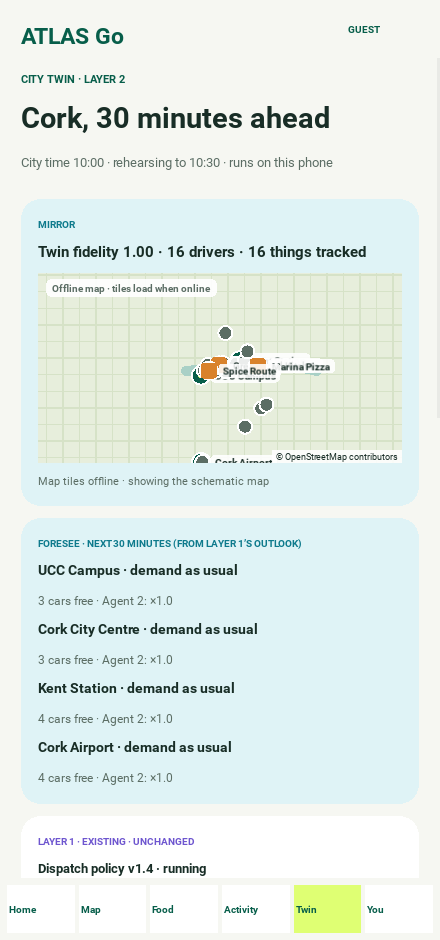
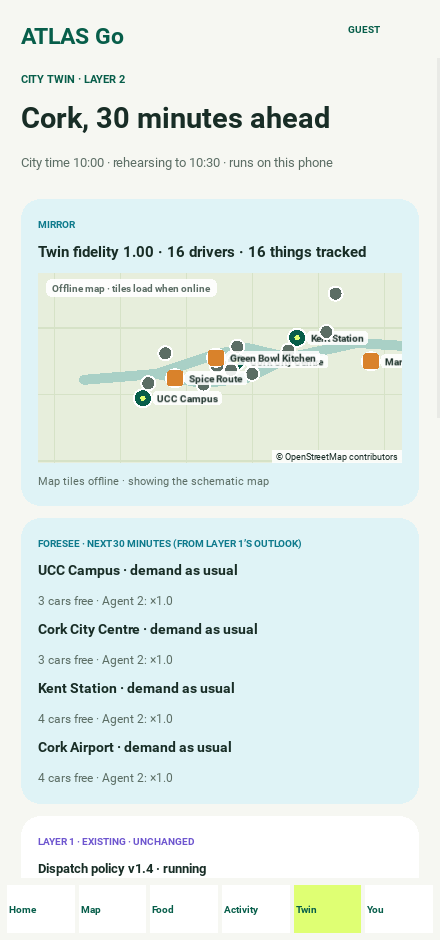
ATLAS Go 1.3.0: refit ride maps after layout; docs and release notes
Claude-Session: https://claude.ai/code/session_01GguvZD6NgGgkNPxeEbuiRF

Changed region(s): [[0.1773, 0.3085, 0.9159, 0.4936]]

diff --git a/android-app/atlas_go/livemap.py b/android-app/atlas_go/livemap.py
@@ -171,7 +171,9 @@ class LiveMap(StencilView):
         self._drag = None
         self.tiles.listeners.append(self._schedule)
         self._redraw_event = None
+        self._fit = None              # points to keep in view until the user pans or zooms
         self.bind(pos=self._schedule, size=self._schedule)
+        self.bind(size=self._refit)
 
     # ------------------------------------------------------------------ public API
     def set_view(self, center=None, zoom=None):
@@ -182,9 +184,17 @@ class LiveMap(StencilView):
         self._schedule()
 
     def zoom_by(self, step: int):
+        self._fit = None
         self.set_view(zoom=self.zoom + step)
 
+    def _refit(self, *_):
+        # A widget starts at Kivy's default 100 x 100 and gets its real size after layout; fitting
+        # at the default size zoomed out to the whole county on phones. Refit once the size is real.
+        if self._fit is not None:
+            self.fit(*self._fit)
+
     def fit(self, points, padding=0.3):
+        self._fit = (list(points), padding)
         if not self.width or not self.height:
             Clock.schedule_once(lambda _dt: self.fit(points, padding), 0)
             return
@@ -230,6 +240,7 @@ class LiveMap(StencilView):
         touch.grab(self)
         self._drag = touch.pos
         self.follow = None
+        self._fit = None
         return True
 
     def on_touch_move(self, touch):

diff --git a/android-app/tests/test_shared_ride.py b/android-app/tests/test_shared_ride.py
@@ -136,3 +136,29 @@ def test_legacy_shared_ride_from_1_2_0_still_has_three_stages(tmp_path):
     s.advance_ride(now=T0 + 1)
     s.advance_ride(now=T0 + 2)
     assert s.ride is None and s.history[-1]['status'] == 'Completed' and s.offers[0].seats == 3
+
+
+def test_map_refits_after_layout_gives_the_real_size():
+    """Ride maps are created at Kivy's default 100 x 100 and laid out later; the fit must follow."""
+    import os
+    os.environ.setdefault('KIVY_NO_ARGS', '1')
+    os.environ.setdefault('KIVY_NO_CONSOLELOG', '1')
+    pytest.importorskip('kivy')
+    from atlas_go.livemap import LiveMap
+
+    class NoTiles:
+        listeners, offline = [], True
+
+        def get(self, *_a, **_k):
+            return None
+
+    m = LiveMap(tile_loader=NoTiles(), interactive=False)
+    points = [geo.ZONE_COORDS['Bishopstown'], geo.PLACE_COORDS[0], geo.PLACE_COORDS[1]]
+    m.fit(points)
+    small = m.zoom
+    m.size = (900, 520)                   # real size after layout
+    assert m.zoom > small
+    m.zoom_by(-1)                          # the user zooms: no more automatic refits
+    zoom = m.zoom
+    m.size = (300, 200)
+    assert m.zoom == zoom

diff --git a/android-app/docs/ARCHITECTURE.md b/android-app/docs/ARCHITECTURE.md
@@ -1,6 +1,6 @@
-# Python Android implementation blueprint (1.2.0)
+# Python Android implementation blueprint (1.3.0)
 
-ATLAS Go uses Python for every application screen, rule, storage operation and test. Kivy provides the UI; Buildozer/python-for-android package it for Android. Version 1.2.0 adds passenger, driver and food-seller accounts, a live map with device location, time-lapse live journeys, and wires all six on-device models into those flows. The app still has no operator back end: accounts and bookings exist on one phone. The only network traffic is map-tile downloads.
+ATLAS Go uses Python for every application screen, rule, storage operation and test. Kivy provides the UI; Buildozer/python-for-android package it for Android. Version 1.3.0 adds Layer 2 — a digital twin of Cork and three agents (dispatch, pricing and repositioning, Guardian) on top of the unchanged 1.2.0 models — and the stop order of a shared car (the rider already on board is dropped first). Version 1.2.0 added passenger, driver and food-seller accounts, a live map with device location, time-lapse live journeys, and wires all six on-device models into those flows. The app still has no operator back end: accounts and bookings exist on one phone. The only network traffic is map-tile downloads.
 
 The full UML blueprint for the app, the web front end, the back end and the databases is in the [UML blueprint catalogue](https://github.com/FUllSCIPTS/ATLAS/blob/architecture-explorer/architecture-explorer/starter/docs/UML_BLUEPRINT.md#android-app-atlas-go).
 
@@ -9,7 +9,7 @@ The full UML blueprint for the app, the web front end, the back end and the data
 ```text
 android-app/
   main.py                         Python application entry point
-  buildozer.spec                  Android API, ABIs, permissions and packaging (1.2.0, versionCode 3)
+  buildozer.spec                  Android API, ABIs, permissions and packaging (1.3.0, versionCode 4)
   requirements.txt                Desktop runtime dependencies
   requirements-dev.txt            Testing dependencies
   CHANGELOG.md                    Release history
@@ -21,6 +21,7 @@ android-app/
     store.py                      Atomic JSON persistence: accounts, rides, orders, kitchens, live progress
     intelligence.py               Calendar, surge outlook, dispatch, acceptance, courier timing, lab, self-test
     learned.py                    Learned constants exported from the simulations (generated)
+    twin.py                       Layer 2: mirror, foresee, Agent 1/2, Guardian, fault drill, self-test (1.3.0)
     livemap.py                    LiveMap widget and TileLoader (OSM tiles, cache, offline layer) (1.2.0)
     location.py                   DeviceLocation: Android LocationManager via pyjnius         (1.2.0)
     app.py                        Python/Kivy screens for passengers, drivers and sellers
@@ -31,6 +32,8 @@ android-app/
     test_intelligence.py          Calendar, outlook, policy, courier timing and lab tests
     test_accounts_geo.py          Validation, hashing, maps, live positions, new model features (1.2.0)
     test_roles.py                 Registration, sign-in, driver/seller lifecycles, deletion, migration (1.2.0)
+    test_shared_ride.py           Rider on board, stop order, drop-first enforcement, live legs   (1.3.0)
+    test_twin.py                  Layer 1 unchanged, Agents 1-3, Guardian limits, persistence      (1.3.0)
   training/                       Development-only simulations and exporter (numpy; not packaged)
     rl_sim.py                     Ride dispatch (REINFORCE) and courier timing (Q-learning)
     city_sim.py                   Two simulated years of Cork demand, holidays, supply agent, LSTM
@@ -47,7 +50,10 @@ flowchart LR
     UI["AtlasGoApp<br/>role-aware screens"] --> ST["LocalStore<br/>commands · validation · rollback · tick()"]
     UI --> MAP["LiveMap<br/>tiles · markers · routes"]
     UI --> LOC["DeviceLocation<br/>runtime permission · fixes"]
-    UI --> AI["intelligence.py<br/>dispatch · acceptance · outlook · courier · lab"]
+    UI --> AI["intelligence.py<br/>Layer 1 · dispatch · acceptance · outlook · courier · lab"]
+    UI --> TW["twin.py<br/>Layer 2 · mirror · foresee · Agent 1 · Agent 2 · Guardian"]
+    TW -. reads only .-> AI
+    TW --> ST
     MAP --> TL["TileLoader<br/>threads · disk cache"]
     TL -. HTTPS .-> OSM[("tile.openstreetmap.org")]
     ST --> AC["accounts.py<br/>validation · PBKDF2"]
@@ -167,11 +173,11 @@ Generated from the Python AST of `atlas_go/` for 1.2.0. Dataclass constructors a
 
 ## Persistence and state rules
 
-`state.json` lives in the app-private data directory. A temporary JSON file is flushed and atomically replaced on each save. Its fields are `accounts`, `session`, `guest`, `kitchens`, `cart`, `history`, `ride`, `order`, `seats` and `ui`. `LocalStore.validate` checks every field (roles, unique emails and ids, hash fields, driver counters and locations, kitchen ids and dish prices, record stages and live data) before any screen reads it; damaged files are preserved as `state.invalid.json` and a clean state is created. A 1.1.0 file (without the new fields) loads unchanged. Map tiles are cached under `tiles/` next to the state file.
+`state.json` lives in the app-private data directory. A temporary JSON file is flushed and atomically replaced on each save. Its fields are `accounts`, `session`, `guest`, `kitchens`, `cart`, `history`, `ride`, `order`, `seats`, `ui` and (1.3.0) `twin` — Layer 2 on/off, agent status and the Guardian log (at most 60 entries; a damaged `twin` field is reset on its own). `LocalStore.validate` checks every field (roles, unique emails and ids, hash fields, driver counters and locations, kitchen ids and dish prices, record stages and live data) before any screen reads it; damaged files are preserved as `state.invalid.json` and a clean state is created. A 1.1.0 file (without the new fields) loads unchanged. Map tiles are cached under `tiles/` next to the state file.
 
 Money is integer cents. One active ride and one active food order exist per phone. A ride booked with a registered driver is `pending` until that driver accepts; declining hands it to the next-best driver. A seller-kitchen order is `pending` until the seller accepts, and stays in the cooking stage until the seller marks it ready. Completed, cancelled and delivered records go into history with the passenger's account id (or none for guests); deleting an account anonymises its records. Only passengers (or guests) book and order; only drivers go online; only sellers edit menus.
 
-Ride: driver on the way → at pickup → on your way → completed (or cancelled). Food: preparing → courier on the way → arriving → delivered. Live positions are straight-line interpolations at 25 km/h shown in a 10× time-lapse (`geo.py`).
+Ride: driver on the way → at pickup → on your way → completed (or cancelled). Shared ride with a rider on board (`ride['co']`): driver on the way (carrying that rider) → at your pickup → dropping that rider → on your way → completed. `co['dropped']` becomes true exactly when the ride enters stage 3; completing earlier is refused and a file that breaks this order is quarantined. Solo rides may carry `surge` (×1.0–×2.0) and `twin` (Agent 1 rollouts). Food: preparing → courier on the way → arriving → delivered. Live positions are straight-line interpolations at 25 km/h shown in a 10× time-lapse (`geo.py`).
 
 ## On-device intelligence
 
@@ -185,6 +191,18 @@ Ride: driver on the way → at pickup → on your way → completed (or cancelle
 | Learning lab | `LearningLab` (REINFORCE) | Simulated rides on the phone; sandbox only |
 
 `intelligence.self_test()` runs each model on known inputs; the Intelligence screen exposes it as *Check all models* and the unit tests require all six to pass. `training/export_learned.py` regenerates `learned.py`; for 1.2.0 the output was identical to the bundled file.
+
+## Layer 2: the city twin (1.3.0)
+
+| Part | Implementation | Reads from Layer 1 | Guardian limit |
+|---|---|---|---|
+| Mirror | `twin.mirror(store, now)` | driver pools, registered drivers, live ride and order | — |
+| Foresee | `twin.foresee`, `ratio_30`, `extra_requests` | `outlook()` for this hour and the next | — |
+| Agent 1 · Dispatch | `twin.agent1`, `rehearse` (200 rollouts, seeded per place and 5-minute window) | `rank()` top three, the acceptance and surge features | top three only, not declined/offline, pickup ≤ Layer 1's + 8 min, 250 ms |
+| Agent 2 · Pricing + moves | `twin.agent2`, `driver_hint`, `kitchen_hint` | `outlook()`, `courier_plan()` | ×1.0–×2.0, ≤ twin's expectation + 0.5, 250 ms |
+| Agent 3 · Guardian | `check_dispatch`, `check_price`, `retest_pricing` (500 rollouts), `fault_drill`, `decide_ride` | — | falls back to `choose()` and the base fare |
+
+`intelligence.py` and `learned.py` are byte-identical to 1.2.0 (`tests/test_twin.py` checks their SHA-256). With Layer 2 off, `decide_ride` returns `intelligence.choose()` and the base fare unchanged.
 
 ## Integration contract for a live service
 

diff --git a/android-app/docs/TESTING.md b/android-app/docs/TESTING.md
@@ -1,17 +1,17 @@
-# Testing and release evidence (1.2.0)
+# Testing and release evidence (1.3.0)
 
-ATLAS Go 1.2.0 is a Python/Kivy app with on-phone accounts, a live map and simulated rides and deliveries. Tests exercise local accounts, bookings, ordering, seller and driver workflows, live progress and every bundled model. They do not contact live drivers, restaurants, payments, back-end services or ML services; the map-tile path is tested against a local stand-in tile server.
+ATLAS Go 1.3.0 is a Python/Kivy app with on-phone accounts, a live map and simulated rides and deliveries. Tests exercise local accounts, bookings, ordering, seller and driver workflows, live progress and every bundled model. They do not contact live drivers, restaurants, payments, back-end services or ML services; the map-tile path is tested against a local stand-in tile server.
 
 ## Automated coverage
 
 | Check | Coverage |
 |---|---|
-| 117 Python unit tests | The 68 earlier cases (holidays, outlooks, dispatch, courier timing, learning lab, fares, seats, basket, persistence, recovery, rollback) plus: password hashing and verification, sign-in lockout, email/phone/password/plate/licence/business/price validation, registration rules per role, driver accept/decline/advance with earnings and acceptance counts, seller menus, open/closed kitchens, order acceptance and ready-for-courier, time-based live progress for rides and orders, account deletion and anonymisation, quarantine of nine kinds of damaged account/kitchen state, loading 1.1.0 files, Web-Mercator maths against the OSM formula, live positions, registered-driver dispatch, the acceptance model, surge level, courier timing for any preparation time, and the six-model self-test |
-| Standard screen configuration | 247 assertions through real Kivy control events at 440 × 940: guest rides, shared rides and food; live map and zoom; a journey advancing on its own; the model check; driver, seller and passenger registration with an invalid-email retry; a registered driver chosen by the policy, accepting and completing the trip; a seller accepting an order and handing it to the courier; wrong-password refusal; account deletion; erase-all; 22 screenshots |
-| Narrow screen and larger text | The same 247 assertions at 360 × 780 with font scale 1.2 |
+| 158 Python unit tests | 1.3.0 adds 41: the ride map refitting after layout; Layer 1 source byte-identical to 1.2.0 and unchanged answers after Layer 2 runs; foresight from the outlook (including across midnight); Agent 1 limited to Layer 1's top three, deterministic and within the time budget; Agent 2 prices capped, stable and ×1.0 at ordinary times; driver and kitchen hints; Guardian price and dispatch limits (cap, floor, NaN, wrong type, outsider, declined, offline, slow); 500-rollout re-test and the fault drill end to end; Layer 2 on/off/re-testing; priced booking persistence; bounded log; damaged or missing `twin` state; mirror fidelity; the four Layer 2 self-checks; and for shared rides the rider on board on every route, the four-stage order, refusal to drop the new rider early, quarantine of a file with the wrong order, restart at every stage, seats released on arrival and cancel, live positions on each leg, the time-lapse running through all four stages, and 1.2.0 shared rides finishing with three stages. The 117 cases from 1.2.0: the 68 earlier cases (holidays, outlooks, dispatch, courier timing, learning lab, fares, seats, basket, persistence, recovery, rollback) plus: password hashing and verification, sign-in lockout, email/phone/password/plate/licence/business/price validation, registration rules per role, driver accept/decline/advance with earnings and acceptance counts, seller menus, open/closed kitchens, order acceptance and ready-for-courier, time-based live progress for rides and orders, account deletion and anonymisation, quarantine of nine kinds of damaged account/kitchen state, loading 1.1.0 files, Web-Mercator maths against the OSM formula, live positions, registered-driver dispatch, the acceptance model, surge level, courier timing for any preparation time, and the six-model self-test |
+| Standard screen configuration | 305 assertions through real Kivy control events at 440 × 940 (1.3.0 adds: twin-tested booking and Guardian checks; a full shared ride with the earlier rider dropped first; the Twin tab, Layer 2 self-checks, fault drill and Layer 2 off/on; a capped busy-time price; the driver twin hint and kitchen hint; 28 screenshots). From 1.2.0: guest rides, shared rides and food; live map and zoom; a journey advancing on its own; the model check; driver, seller and passenger registration with an invalid-email retry; a registered driver chosen by the policy, accepting and completing the trip; a seller accepting an order and handing it to the courier; wrong-password refusal; account deletion; erase-all; 22 screenshots |
+| Narrow screen and larger text | The same 305 assertions at 360 × 780 with font scale 1.2 |
 | Live map | Tiles fetched from a local tile server, decoded, cached on disk and drawn at the right positions (Cork centre = tile 13/3903/2709); User-Agent header checked; offline schematic layer when tiles are unavailable; drag-to-pan through Kivy's touch pipeline; simulated GPS fix and nearest-pickup text |
 | Model retraining | `training/export_learned.py` reproduces `atlas_go/learned.py` byte for byte |
-| Release bundle | bundletool validation; manifest: version 1.2.0 / code 3, target 36, not debuggable, backup off, exactly INTERNET, ACCESS_NETWORK_STATE, ACCESS_FINE_LOCATION, ACCESS_COARSE_LOCATION, no background location; location hardware optional |
+| Release bundle | bundletool validation; manifest: version 1.3.0 / code 4, target 36, not debuggable, backup off, exactly INTERNET, ACCESS_NETWORK_STATE, ACCESS_FINE_LOCATION, ACCESS_COARSE_LOCATION, no background location; location hardware optional |
 | Native runtime | All 232 packaged 64-bit ELF libraries aligned to 16 KB |
 | Packaged code | The APK's compiled modules load and run on CPython 3.14 (accounts, store, geo, all six models); every Kivy, pyjnius, android and requests module the UI imports is present in the APK's Python bundle |
 | APK signature | APK Signature Scheme v2 and v3 verified |
@@ -20,6 +20,11 @@ ATLAS Go 1.2.0 is a Python/Kivy app with on-phone accounts, a live map and simul
 The Android debug driver is enabled only when Android marks the APK debuggable and an explicit test launch intent is supplied. The release variant ignores this switch.
 
 ## Bugs fixed during this handover
+
+1.3.0:
+- On phones the ride map was fitted before layout (at Kivy's default 100 × 100) and showed the whole county; it now refits once the real size is known, until the user pans or zooms.
+- Shared seats stayed reserved after a completed shared ride; they are now released on arrival as well as on cancel.
+- The acceptance run used the real clock, so prices and surge features could change with the time of day; it now pins an ordinary hour and a busy hour.
 
 1.2.0:
 - A ride-request decline without a fallback driver counted as an offer before failing; validation now happens first.
@@ -56,4 +61,4 @@ See [release validation](../releases/VALIDATION.md) for the exact source revisio
 
 ## Remaining release work
 
-The emulator run for 1.2.0 happens in GitHub Actions after this source is pushed. Real GPS fixes and the location permission dialog, real OpenStreetMap tile downloads on a phone, physical Android phone/tablet testing, TalkBack and switch-access review, large font settings beyond the tested configuration, battery/performance profiling, Play pre-launch reports, developer identity/listing declarations and any account-specific testing requirements remain owner checks. The model does not provide production transport or food services. Google Play review is a separate process; passing these tests does not guarantee acceptance.
+For 1.3.0 the Android 16 emulator run was executed in GitHub Actions before release (see the release validation). Real GPS fixes and the location permission dialog, real OpenStreetMap tile downloads on a phone, physical Android phone/tablet testing, TalkBack and switch-access review, large font settings beyond the tested configuration, battery/performance profiling, Play pre-launch reports, developer identity/listing declarations and any account-specific testing requirements remain owner checks. The model does not provide production transport or food services. Google Play review is a separate process; passing these tests does not guarantee acceptance.

diff --git a/android-app/README.md b/android-app/README.md
@@ -1,17 +1,32 @@
-# ATLAS Go — Android app (version 1.2.0)
+# ATLAS Go — Android app (version 1.3.0)
 
-**README option 4:** a Python/Kivy Android app for Cork with three kinds of account — **passengers**, **drivers** and **food sellers** — a **live map**, solo and shared rides, food ordering, and on-device ATLAS intelligence (learned dispatch, acceptance, surge outlook, supply boost, courier timing and a learning lab).
+**README option 4:** a Python/Kivy Android app for Cork with three kinds of account — **passengers**, **drivers** and **food sellers** — a **live map**, solo and shared rides, food ordering, on-device ATLAS intelligence (Layer 1: learned dispatch, acceptance, surge outlook, supply boost, courier timing and a learning lab) and, new in 1.3.0, **a digital twin of Cork with three agents on top (Layer 2)**.
 
-ATLAS Go 1.2.0 runs entirely on the phone. Accounts, rides, orders and kitchens are stored in private app storage. Several accounts can live on one phone, so a passenger can book a ride that a driver account on the same phone accepts, and order from a kitchen that a seller account on the same phone runs. Rides, deliveries and payments are simulated; no operator back end, payment provider or identity check is connected yet (see [What "production ready" covers](#what-production-ready-covers)).
+ATLAS Go 1.3.0 runs entirely on the phone. Accounts, rides, orders and kitchens are stored in private app storage. Several accounts can live on one phone, so a passenger can book a ride that a driver account on the same phone accepts, and order from a kitchen that a seller account on the same phone runs. Rides, deliveries and payments are simulated; no operator back end, payment provider or identity check is connected yet (see [What "production ready" covers](#what-production-ready-covers)).
 
-- [Installable APK 1.2.0 on Google Drive — request access](https://drive.google.com/file/d/1lX5DF9e8ierusJ1OCuVHkeqeCoBgqQfq/view): open the link, click **Request access**; the owner approves by email
[1 lines of base64/hex data omitted]
-- [1.2.0 release page: SHA256SUMS, release notes and validation](releases/1.2.0/README.md)
+- @@APK_LINE@@
+- **Source code, open under the [MIT licence](../LICENSE):** browse it here in [`android-app/`](.) or [download atlas-go-1.3.0-source.zip](https://github.com/FUllSCIPTS/ATLAS/releases/download/atlas-go-v1.3.0/atlas-go-1.3.0-source.zip) (SHA-256 `@@SRC_SHA@@`)
+- [1.3.0 release page: SHA256SUMS, release notes and validation](releases/1.3.0/README.md) · [1.2.0 release page](releases/1.2.0/README.md)
 - [User guide with screenshots of every screen](docs/USER_GUIDE.md)
-- [What changed in 1.2.0](CHANGELOG.md)
+- [What changed in 1.3.0](CHANGELOG.md)
 - [Folder hierarchy, classes and integration blueprint](docs/ARCHITECTURE.md) · [UML blueprint catalogue](https://github.com/FUllSCIPTS/ATLAS/blob/architecture-explorer/architecture-explorer/starter/docs/UML_BLUEPRINT.md#android-app-atlas-go)
 - [Privacy notice](docs/PRIVACY.md) · [Testing](docs/TESTING.md) · [Build, signing and Google Play](docs/GOOGLE_PLAY.md)
-- [▶ Demo video of 1.1.0 (4 min 52 s)](docs/video/atlas-go-demo.mp4)
+- [▶ Demo video with the digital twin and multi-agent layer (7 min 39 s)](docs/video/atlas-go-demo-v1.3-twin.mp4) · [demo of 1.1.0 (4 min 52 s)](docs/video/atlas-go-demo.mp4)
+
+## What's new in 1.3.0
+
+| Area | What works |
+|---|---|
+| Two layers | **Layer 1** is the 1.2.0 intelligence, unchanged (`intelligence.py` and `learned.py` are byte-identical and a test checks it). **Layer 2** (`twin.py`) sits on top and only reads Layer 1's forecast, ranking and cost model. Switch Layer 2 off in the Twin tab and the app behaves exactly as 1.2.0. |
+| Digital twin | Mirrors every driver, the active car and the courier with a fidelity score, and foresees the next 30 minutes per pickup place from Layer 1's surge outlook. |
+| Agent 1 · Dispatch | Rehearses Layer 1's top three drivers 200 times each in the twin (rider wait, declines, riders left waiting if a busy area loses its last car) and sends the lowest total wait. Riders see *Rehearsed in the city twin* and *Twin-tested*. |
+| Agent 2 · Pricing + moves | Rehearses three plans per area every five minutes; capped surge (never above ×2.0, ×1.0 at ordinary times). Drivers get a *Twin hint* (move, stay or no move needed); kitchens get the courier's twin ETA and when to start cooking. |
+| Agent 3 · Guardian | Checks every decision against hard limits and a 250 ms budget, blocks anything unsafe (e.g. a ×4 price), falls back to Layer 1, re-tests the agent 500 times in the twin and hands control back. **Twin tab:** mirror, foresight, both layers, Guardian log, *Run Guardian fault drill*, *Check Layer 2*. |
+| Shared rides | Each shared car already has a rider on board. The new rider waits while the driver comes with that rider, boards, and is **dropped only after the earlier rider's drop-off** — shown as a stop checklist and on the map, and enforced by the app. Seats are released on arrival as well as on cancel. |
+
+| Twin-tested ride | Shared car: earlier rider first | Twin tab | Guardian log | Driver twin hint |
+|---|---|---|---|---|
+| <img src="docs/screenshots/04-ride-live.png" width="150"> | <img src="docs/screenshots/25-shared-co-drop.png" width="150"> | <img src="docs/screenshots/26-twin-tab.png" width="150"> | <img src="docs/screenshots/27-guardian-log.png" width="150"> | <img src="docs/screenshots/29-driver-twin-hint.png" width="150"> |
 
 ## What's new in 1.2.0
 
@@ -65,9 +80,10 @@ Desktop preview needs Python 3.12+; Android packaging uses Buildozer and python-
 cd android-app
 python -m venv .venv && source .venv/bin/activate
 pip install -r requirements-dev.txt
-python -m pytest tests                       # 117 tests
+python -m pytest tests                       # 158 tests
 python main.py                               # desktop preview
 ATLAS_FAKE_GPS=51.8990,-8.4700 python main.py  # preview with a simulated location
+ATLAS_CLOCK=2027-03-17T13:00 python main.py     # preview the twin at a busy time (St Patrick's Day)
 # Android packages (Linux, after installing build prerequisites):
 buildozer android debug
 buildozer android release

diff --git a/android-app/CHANGELOG.md b/android-app/CHANGELOG.md
@@ -1,5 +1,32 @@
 # ATLAS Go changelog
 
+## 1.3.0 (versionCode 4) — 14 November 2026
+
+### Added
+- **Layer 2: the city twin** (`atlas_go/twin.py`). A digital twin of Cork mirrors the drivers, the active car and the courier (with a fidelity score) and foresees the next 30 minutes per pickup place from Layer 1's surge outlook. Three agents work on top of Layer 1:
+  - **Agent 1 · Dispatch** takes Layer 1's top three drivers and rehearses each one 200 times in the twin (rider wait, declines, and the riders left waiting if a busy area loses its last free car); the lowest total wait is sent.
+  - **Agent 2 · Pricing and repositioning** rehearses three plans per area every five minutes (keep prices; surge only; small surge plus moving idle cars) with a ×2.0 cap, and gives drivers a *Twin hint* (move, stay or no move needed).
+  - **Agent 3 · Guardian** checks every decision: Layer 1's top three only, no driver who declined or went offline, pickup not far beyond Layer 1's, a 250 ms time budget, price between ×1.0 and ×2.0 and at most +0.5 above the twin's expectation. Blocked decisions fall back to Layer 1 (driver and base price); a blocked agent is re-tested with 500 rollouts in the twin before control is handed back. Every check is kept in a Guardian log on the phone.
+- Passenger: *Price check · Layer 2* card, *Agent 1 · rehearsed in the city twin* card, and a *Twin-tested* reason on the booked ride.
+- Driver: *Twin hint · Agent 2* card with *Show me on the map*. Kitchen: *Twin hint* with the courier's arrival and when to start cooking.
+- **Twin tab** for every role: mirror and live map, 30-minute foresight per place, Layer 1 and Layer 2 status, Guardian log, **Run Guardian fault drill**, **Check Layer 2** (4 self-checks) and a switch to turn Layer 2 off (the app then behaves exactly as 1.2.0).
+- Home card *New in 1.3 · City twin*; privacy notice section on the twin.
+
+### Changed
+- **Shared rides follow the stop order of a shared car.** Each carpool already carries a rider. The driver comes from where that rider boarded; the new rider waits (*Please wait · Ciara is in the car*), boards, and is dropped **only after** the earlier rider's drop-off: driver on the way → at your pickup → dropping the earlier rider → your drop-off. The order is shown as a checklist on the ride screen and on the map, enforced by the store (completing early is refused) and checked when the saved file is loaded.
+- Shared seats are released when the ride is completed, not only when it is cancelled.
+- Ride and twin maps refit after layout: on phones they were fitted at Kivy's default 100 × 100 size and showed the whole county.
+- Solo fares can include a capped busy-time price (×1.0 to ×2.0, rounded to 10 cents) when Layer 2 is on and the Guardian passes it.
+- Bottom navigation adds **Twin** (passenger: 6 tabs; driver and seller: 5).
+- The app clock can be pinned (`ATLAS_CLOCK=2027-03-17T13:00`) for repeatable previews; the acceptance run pins it.
+
+### Unchanged
+- Layer 1 — `intelligence.py` and `learned.py` — is byte-identical to 1.2.0 (a unit test checks the SHA-256 of both files).
+
+### Compatibility
+- 1.2.0 and 1.1.0 `state.json` files load unchanged; Layer 2 starts switched on with an empty log. A shared ride saved by 1.2.0 finishes with the old three stages.
+- Signed with a different key from the 1.2.0 Drive APK: uninstall 1.2.0 before installing the 1.3.0 APK.
+
 ## 1.2.0 (versionCode 3) — 7 November 2026
 
 ### Added

diff --git a/android-app/docs/USER_GUIDE.md b/android-app/docs/USER_GUIDE.md
@@ -1,4 +1,4 @@
-# ATLAS Go user guide (1.2.0)
+# ATLAS Go user guide (1.3.0)
 
 The screenshots are captured from the running Python/Kivy app by the automated acceptance run (desktop preview at 440 × 940; the Android workflow replaces them with Android 16 emulator captures of the same screens). They show illustrative Cork data and test accounts, not real customers, drivers or kitchens.
 
@@ -38,9 +38,13 @@ When ATLAS picks a registered driver, the ride waits for that driver to accept. 
 
 ## 4. Shared rides
 
-From Home choose **Share ride**. Use UCC Campus → Cork City Centre (or another seeded route), choose one or two seats and join. Seats are reserved immediately and released if you cancel.
+From Home choose **Share ride**. Use UCC Campus → Cork City Centre (or another seeded route), choose one or two seats and join. Seats are reserved immediately and released when you arrive or cancel.
 
-![Shared rides](screenshots/05-shared-rides.png)
+Each shared car already has a rider on board, and the card tells you who gets out first. The driver comes to you with that rider in the car (*Please wait · Ciara is in the car*), you board, the driver drops the earlier rider, and only then drives you to your destination. The ride screen shows the stops as a checklist; your drop-off is locked until the earlier rider's drop-off is done.
+
+| Join a shared car | Waiting with a rider on board | Earlier rider dropped first |
+|---|---|---|
+| ![Shared rides](screenshots/05-shared-rides.png) | ![Waiting](screenshots/24-shared-waiting.png) | ![Dropping the earlier rider](screenshots/25-shared-co-drop.png) |
 
 ## 5. Food
 
@@ -89,6 +93,22 @@ The Kitchen tab opens or closes the kitchen, sets the preparation time (courier 
 | Models and outlook | Learning lab |
 |---|---|
 | ![Intelligence](screenshots/14-intelligence.png) | ![Learning lab](screenshots/15-learning-lab.png) |
+
+## 11. City twin (Layer 2, new in 1.3)
+
+The **Twin** tab shows the digital twin of Cork. It mirrors the drivers, your car and the courier (*twin fidelity* is how well their positions are known), and plays the next 30 minutes for each pickup place using the surge outlook from *How ATLAS learns*.
+
+Three agents work on top of the learned models, which are unchanged:
+
+- **Agent 1 · Dispatch** rehearses the dispatch policy's top three drivers in the twin and sends the one with the lowest total waiting time. The booking screen and the ride show this as *Rehearsed in the city twin* and *Twin-tested*.
+- **Agent 2 · Pricing + moves** tries three price plans per area. Prices never go above ×2.0, and at an ordinary time they stay ×1.0. Drivers see a *Twin hint* (move towards a busy area, stay, or no move needed); it is a suggestion, never an order.
+- **Agent 3 · Guardian** checks every decision. The **Guardian log** lists each one. **Run Guardian fault drill** makes Agent 2 send a ×4.0 price in the twin: the Guardian blocks it, serves riders with the base price, re-tests Agent 2 500 times and hands control back.
+
+**Turn Layer 2 off** makes ATLAS Go choose drivers and prices exactly as version 1.2.0. **Check Layer 2** runs four self-checks.
+
+| Twin tab | Guardian log | Busy-time price | Driver twin hint |
+|---|---|---|---|
+| ![Twin](screenshots/26-twin-tab.png) | ![Guardian log](screenshots/27-guardian-log.png) | ![Price](screenshots/28-surge-price.png) | ![Hint](screenshots/29-driver-twin-hint.png) |
 
 ## Limits
 

diff --git a/android-app/releases/1.3.0/RELEASE_NOTES.md b/android-app/releases/1.3.0/RELEASE_NOTES.md
@@ -1,0 +1,13 @@
+# ATLAS Go 1.3.0 release notes
+
+**Two layers.** Layer 1 is the 1.2.0 intelligence (surge outlook, dispatch policy v1.4, acceptance model, supply agent, Q-learning courier timing, learning lab), unchanged: `intelligence.py` and `learned.py` are byte-identical and a test checks it. Layer 2 sits on top and only reads Layer 1's forecast, ranking and cost model. Turn Layer 2 off in the new **Twin** tab and the app behaves exactly as 1.2.0.
+
+**The city twin.** A digital twin of Cork mirrors every driver, your car and the courier (with a fidelity score) and foresees the next 30 minutes per pickup place.
+
+**Agent 1 · Dispatch** rehearses Layer 1's top three drivers 200 times each in the twin and sends the lowest total wait. **Agent 2 · Pricing and moves** rehearses three plans per area every five minutes, with prices capped at ×2.0 (×1.0 at ordinary times), and gives drivers a *Twin hint* and kitchens the courier's twin ETA. **Agent 3 · Guardian** checks every decision, blocks unsafe ones such as a ×4 price, falls back to Layer 1, re-tests the agent 500 times and hands control back. The Twin tab shows the Guardian log, a fault drill and four Layer 2 self-checks.
+
+**Shared rides in the right order.** Every shared car already carries a rider. You wait while the driver comes with that rider, you board, the earlier rider is dropped, and only then are you dropped. The ride screen shows the stops as a checklist and the map shows the earlier rider's stop; the app refuses to finish your ride before the earlier drop-off. Seats are freed on arrival as well as on cancel.
+
+**Permissions** are unchanged: Internet (map tiles), network state, fine and coarse location (foreground only). No background location, ads, analytics or payments. Everything in Layer 2 runs on the phone.
+
+Install: uninstall 1.2.0 first (different signing key). Full list: [CHANGELOG](../../CHANGELOG.md).
